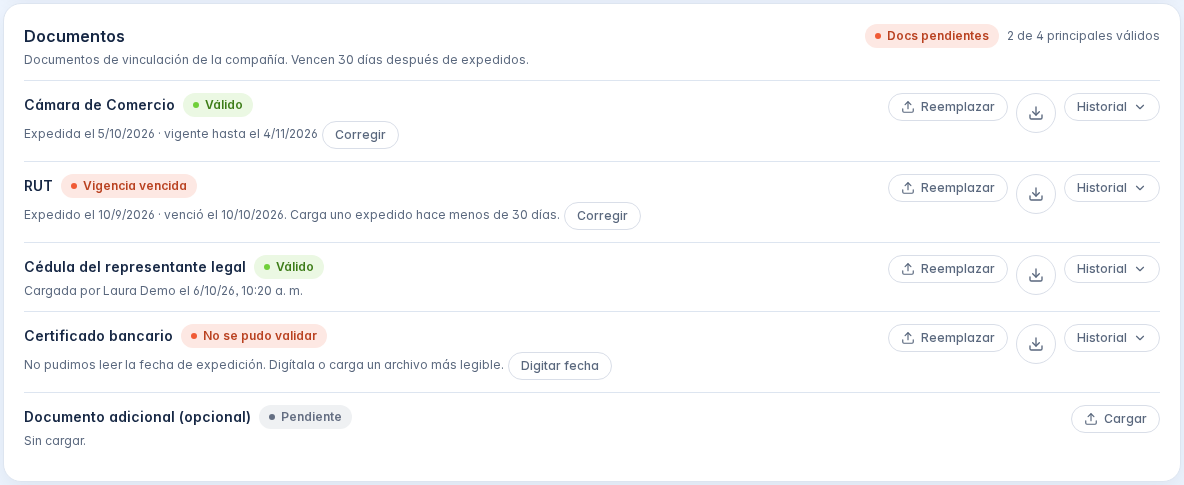
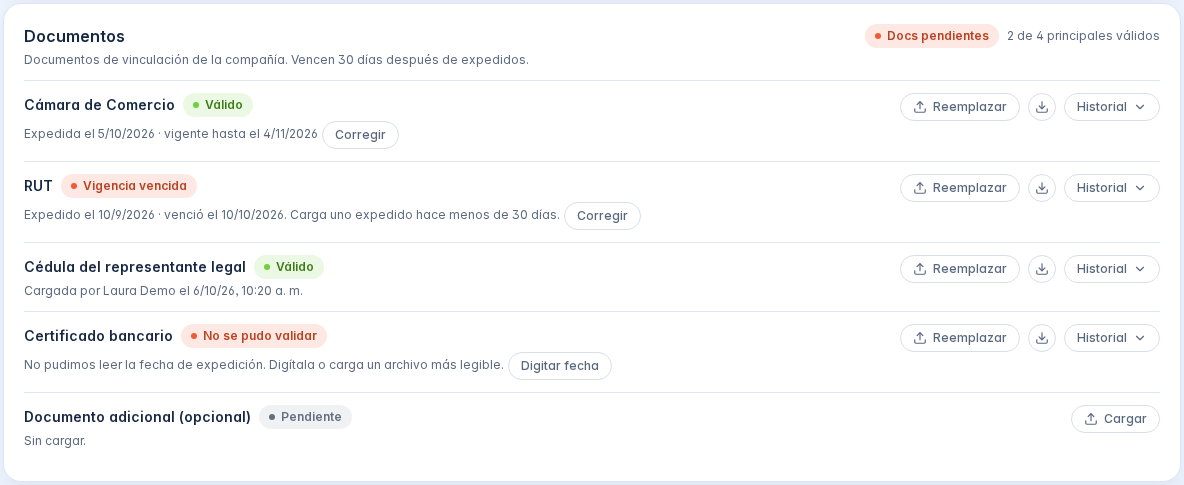
fix(flito-bolsas): botón de descargar a la altura del kit y foco estable al cargar o digitar fecha (HU #13892)
Hallazgos de la sesión de evidencias en DEV:
- El botón de descargar (fila e historial) medía 40 px frente a 28 px de sus
  vecinos. Nuevo flitBtnIconoSm en el kit (h-7 w-7).
- Al cargar un archivo el input se deshabilitaba con el foco dentro; el foco
  caía al diálogo y el modal subía al inicio. Ahora aria-disabled + candado y
  el foco vuelve a la fila sin scroll; el editor de fecha enfoca con
  preventScroll.

Ficha flito_bolsas v1.5 con la captura 05 regenerada.

diff --git a/apps/web/e2e/tests/flito-bolsas-documentos.spec.ts b/apps/web/e2e/tests/flito-bolsas-documentos.spec.ts
@@ -109,6 +109,18 @@ async function abrir(page: Page, nombre = 'TRANSPORTES ANDINOS') {
 
 const seccion = (modal: ReturnType<Page['getByRole']>) => modal.getByRole('region', { name: 'Documentos', exact: true });
 
+/** `scrollTop` del primer ancestro desplazable de la fila (el cuerpo del detalle o el overlay). */
+const scrollDelModal = (fila: ReturnType<Page['getByTestId']>) => fila.evaluate((el) => {
+  for (let n = el.parentElement; n; n = n.parentElement) {
+    const oy = getComputedStyle(n).overflowY;
+    if ((oy === 'auto' || oy === 'scroll') && n.scrollHeight > n.clientHeight) return n.scrollTop;
+  }
+  return -1;
+});
+
+/** Lleva la fila al centro de su contenedor desplazable, para que un salto al inicio se note. */
+const centrar = (fila: ReturnType<Page['getByTestId']>) => fila.evaluate((el) => el.scrollIntoView({ block: 'center' }));
+
 test.describe('FLITO — Bolsas · expediente documental de la compañía (HU #13892)', () => {
   test('AC1 + AC3 vacío: la sección lista los 5 documentos en Pendiente con su siguiente paso', async ({ page }) => {
     await loginAs(page, FINANCIERA_USER, { funciones: CON_CARGA });
@@ -403,5 +415,121 @@ test.describe('FLITO — Bolsas · expediente documental de la compañía (HU #1
     const input = s.getByLabel('Reemplazar RUT');
     await input.focus();
     await expect(input).toBeFocused();
+  });
+
+  test('retrabajo DEV: el botón de descargar tiene la altura de «Reemplazar» e «Historial»', async ({ page }) => {
+    await loginAs(page, FINANCIERA_USER, { funciones: CON_CARGA });
+    await mock(page, { e1: LLENO });
+    const fila = seccion(await abrir(page)).getByTestId('doc-rut');
+    const descargar = await fila.getByRole('button', { name: 'Descargar RUT (versión 3)' }).boundingBox();
+    const reemplazar = await fila.locator('label', { hasText: 'Reemplazar' }).boundingBox();
+    const historial = await fila.getByRole('button', { name: 'Ver el historial de RUT' }).boundingBox();
+    expect(descargar && reemplazar && historial).toBeTruthy();
+    expect(descargar!.height).toBe(reemplazar!.height);
+    expect(descargar!.height).toBe(historial!.height);
+    expect(descargar!.width).toBe(descargar!.height);
+    // Y en la misma línea: el borde superior coincide con el de sus vecinos.
+    expect(Math.abs(descargar!.y - reemplazar!.y)).toBeLessThan(1);
+  });
+
+  test('retrabajo DEV: en el historial, los botones de descargar son cuadrados y a la altura de «Historial»', async ({ page }) => {
+    await loginAs(page, FINANCIERA_USER, { funciones: CON_CARGA });
+    await mock(page, { e1: LLENO });
+    await page.route(/\/historial$/, (r) => json(r, {
+      versiones: [
+        { ...version('rut', { version: 3 }), vigente: true, reemplazadoEn: null, archivoDisponible: true },
+        { ...version('rut', { version: 2, id: '00000000-0000-4000-8000-000000000009' }), vigente: false, reemplazadoEn: '2026-10-01T10:00:00.000Z', archivoDisponible: true },
+      ],
+    }));
+    const fila = seccion(await abrir(page)).getByTestId('doc-rut');
+    const toggle = fila.getByRole('button', { name: 'Ver el historial de RUT' });
+    await toggle.click();
+    const historial = fila.getByRole('region', { name: 'Historial del RUT' });
+    await expect(historial.getByRole('button', { name: /^Descargar RUT \(versión \d\)$/ })).toHaveCount(2);
+    const alto = (await toggle.boundingBox())!.height;
+    const reemplazar = (await fila.locator('label', { hasText: 'Reemplazar' }).boundingBox())!.height;
+    expect(alto).toBe(reemplazar);
+    for (const n of [3, 2]) {
+      const caja = (await historial.getByRole('button', { name: `Descargar RUT (versión ${n})` }).boundingBox())!;
+      expect(caja.height, `versión ${n} · alto`).toBe(alto);
+      expect(caja.width, `versión ${n} · cuadrado`).toBe(caja.height);
+    }
+  });
+
+  test('retrabajo DEV: tras cargar un archivo el foco sigue en la fila y el modal no salta al inicio', async ({ page }) => {
+    await page.setViewportSize({ width: 1366, height: 600 });
+    await loginAs(page, FINANCIERA_USER, { funciones: CON_CARGA });
+    await mock(page, { e1: LLENO });
+    let respuesta = 201;
+    await page.route(/\/api\/flito\/bolsas-documentos\/companias\/1\/tipos\/adicional$/, async (r) => {
+      await new Promise((res) => setTimeout(res, 300));
+      return respuesta === 201 ? json(r, version('adicional'), 201) : json(r, { error: 'falla' }, respuesta);
+    });
+    const fila = seccion(await abrir(page)).getByTestId('doc-adicional');
+    await centrar(fila);
+    const antes = await scrollDelModal(fila);
+    expect(antes).toBeGreaterThan(0);
+
+    const input = fila.getByLabel('Cargar Documento adicional');
+    await input.focus();
+    await input.setInputFiles({ name: 'ok.pdf', mimeType: 'application/pdf', buffer: Buffer.from('%PDF') });
+    await expect(fila.getByText('Cargando…')).toBeVisible();
+    await expect(page.getByText('Documento adicional cargado.')).toBeVisible();
+    // «Cargar» pasa a «Reemplazar» sin desmontar el control: el foco no cae al diálogo.
+    const reemplazar = fila.getByLabel('Reemplazar Documento adicional');
+    await expect(reemplazar).toBeFocused();
+    expect(await fila.evaluate((el) => el.contains(document.activeElement))).toBe(true);
+    expect(await scrollDelModal(fila)).toBeGreaterThan(0);
+
+    // Error de red con «Reintentar»: el botón se desmonta al reintentar y el foco vuelve a la carga.
+    respuesta = 500;
+    await reemplazar.setInputFiles({ name: 'otra.pdf', mimeType: 'application/pdf', buffer: Buffer.from('%PDF') });
+    const reintentar = fila.getByRole('button', { name: 'Reintentar la carga de Documento adicional' });
+    await reintentar.focus();
+    await reintentar.press('Enter');
+    await expect(fila.getByRole('alert')).toHaveText('No pudimos cargar el archivo. Intenta de nuevo.');
+    await expect.poll(() => fila.evaluate((el) => el.contains(document.activeElement))).toBe(true);
+    expect(await scrollDelModal(fila)).toBeGreaterThan(0);
+  });
+
+  test('retrabajo DEV: «Digitar fecha» deja el foco en el campo, se escribe con el teclado y el sondeo no lo quita', async ({ page }) => {
+    await page.clock.install();
+    await page.setViewportSize({ width: 1366, height: 800 });
+    await loginAs(page, FINANCIERA_USER, { funciones: CON_CARGA });
+    // Otra fila en «Validando…» mantiene vivo el sondeo de 5 s mientras se escribe.
+    const conSondeo = expediente(1, {
+      camara_comercio: { estado: 'validando' },
+      certificado_bancario: { estado: 'no_validado' },
+    });
+    const peticiones = await mock(page, { e1: conSondeo });
+    const fila = seccion(await abrir(page)).getByTestId('doc-certificado_bancario');
+    const boton = fila.getByRole('button', { name: 'Digitar la fecha de expedición de Certificado bancario' });
+    // El botón queda pegado al borde inferior: el editor nace en parte fuera de la vista.
+    await boton.evaluate((el) => el.scrollIntoView({ block: 'end' }));
+    const antes = await scrollDelModal(fila);
+    expect(antes).toBeGreaterThan(0);
+
+    await boton.click();
+    const campo = fila.getByLabel('Fecha de expedición', { exact: true });
+    await expect(campo).toBeFocused();
+    await expect(campo).toBeInViewport({ ratio: 1 });
+    // El modal no vuelve al inicio: como mucho se desplaza lo que asoma el editor.
+    const despues = await scrollDelModal(fila);
+    expect(despues).toBeGreaterThanOrEqual(antes);
+
+    // El orden de los segmentos del <input type="date"> sigue el locale del navegador.
+    const orden = await page.evaluate(() => new Intl.DateTimeFormat(navigator.language)
+      .formatToParts(new Date(2026, 9, 20)).filter((x) => x.type !== 'literal').map((x) => x.type));
+    const partes: Record<string, string> = { day: '20', month: '10', year: '2026' };
+    for (const t of orden) {
+      await page.keyboard.type(partes[t]);
+      const e1 = peticiones.e1;
+      await page.clock.runFor(5_500);
+      await expect.poll(() => peticiones.e1).toBeGreaterThan(e1);
+    }
+    await expect(campo).toBeFocused();
+    await expect(campo).toHaveValue('2026-10-20');
+    // Ni el sondeo ni el tecleo mueven el scroll.
+    expect(await scrollDelModal(fila)).toBe(despues);
   });
 });

diff --git a/apps/web/src/components/flito-bolsas-documentos/FilaDocumento.tsx b/apps/web/src/components/flito-bolsas-documentos/FilaDocumento.tsx
@@ -11,14 +11,17 @@ import {
   participio, tituloDocumento,
 } from '../../lib/bolsasDocumentos';
 import StatusChip from '../flit/StatusChip';
-import { flitBtnSecondarySm, flitBtnSecondarySmToggle } from '../flit/flitPageKit';
+import { flitBtnIconoSm, flitBtnSecondarySm, flitBtnSecondarySmToggle } from '../flit/flitPageKit';
 import { toastOk } from '../flit/ToastFlito';
 import EditorFechaExpedicion from './EditorFechaExpedicion';
 import HistorialDocumento from './HistorialDocumento';
-import { BOTON_ICONO, useDescargaDocumentoBolsa } from './useDescargaDocumentoBolsa';
+import { useDescargaDocumentoBolsa } from './useDescargaDocumentoBolsa';
 
+// El input de carga NO se deshabilita mientras sube: si tenía el foco, `disabled` lo tiraría a <body> y
+// la trampa del modal lo llevaría al diálogo con scroll al inicio (HU #13892, retrabajo DEV). Se marca
+// `aria-disabled` y el candado de `subir` impide la segunda carga.
 const ANILLO_LABEL =
-  'cursor-pointer has-[input:focus-visible]:outline-2 has-[input:focus-visible]:outline-offset-2 has-[input:focus-visible]:outline-[color:var(--flit-border-focus)] has-[input:disabled]:cursor-not-allowed has-[input:disabled]:opacity-50';
+  'cursor-pointer has-[input:focus-visible]:outline-2 has-[input:focus-visible]:outline-offset-2 has-[input:focus-visible]:outline-[color:var(--flit-border-focus)] has-[input[aria-disabled=true]]:cursor-not-allowed has-[input[aria-disabled=true]]:opacity-50';
 
 /** `archivo` = el que falló por red/429, para «Reintentar» con el mismo; `null` = sin reintento. */
 type ErrorCarga = { texto: string; archivo: File | null };
@@ -52,11 +55,13 @@ export default function FilaDocumento(p: FilaDocumentoProps) {
   const toggleRef = useRef<HTMLButtonElement>(null);
   const [focoFecha, setFocoFecha] = useState(false);
   const fechaRef = useRef<HTMLButtonElement>(null);
+  const filaRef = useRef<HTMLLIElement>(null);
+  const cargaRef = useRef<HTMLInputElement>(null);
   const { descargar, enCurso } = useDescargaDocumentoBolsa();
 
   // Al cerrar el editor (guardar o cancelar), el foco vuelve a «Corregir» / «Digitar fecha».
   useEffect(() => {
-    if (focoFecha && !p.editando) { fechaRef.current?.focus(); setFocoFecha(false); }
+    if (focoFecha && !p.editando) { fechaRef.current?.focus({ preventScroll: true }); setFocoFecha(false); }
   }, [focoFecha, p.editando]);
 
   const cerrarEditor = () => { p.onEditar(false); setFocoFecha(true); };
@@ -66,6 +71,8 @@ export default function FilaDocumento(p: FilaDocumentoProps) {
     const local = errorArchivoLocal(archivo);
     if (local) { setErrorCarga({ texto: local, archivo: null }); return; }
     candado.current = true;
+    // Si la carga arrancó desde esta fila (input o «Reintentar»), el foco se queda en ella al terminar.
+    const focoEnFila = filaRef.current?.contains(document.activeElement) ?? false;
     setSubiendo(true);
     setErrorCarga(null);
     const reemplazo = vigente !== null;
@@ -96,6 +103,13 @@ export default function FilaDocumento(p: FilaDocumentoProps) {
     } finally {
       candado.current = false;
       setSubiendo(false);
+      // «Reintentar» se desmonta al reintentar y la fila puede re-renderizar con el DTO nuevo: si el foco
+      // salió de la fila, vuelve al control de carga (estable: solo cambia su texto), sin mover el scroll.
+      if (focoEnFila) {
+        requestAnimationFrame(() => {
+          if (!filaRef.current?.contains(document.activeElement)) cargaRef.current?.focus({ preventScroll: true });
+        });
+      }
     }
   }
 
@@ -111,7 +125,7 @@ export default function FilaDocumento(p: FilaDocumentoProps) {
   const ocupadoDescarga = vigente ? enCurso.has(vigente.id) : false;
 
   return (
-    <li className="grid grid-cols-1 gap-x-4 gap-y-2 py-3 sm:grid-cols-[1fr_auto]" style={{ borderColor: 'var(--flit-border-soft)' }}
+    <li ref={filaRef} className="grid grid-cols-1 gap-x-4 gap-y-2 py-3 sm:grid-cols-[1fr_auto]" style={{ borderColor: 'var(--flit-border-soft)' }}
       data-testid={`doc-${tipo}`}>
       <div className="min-w-0 break-words">
         <div className="flex flex-col items-start gap-1 sm:flex-row sm:flex-wrap sm:items-center sm:gap-2">
@@ -141,8 +155,10 @@ export default function FilaDocumento(p: FilaDocumentoProps) {
           <label className={`${flitBtnSecondarySm} ${ANILLO_LABEL}`} aria-busy={subiendo || undefined}>
             <Upload size={14} aria-hidden="true" className="shrink-0" />
             {subiendo ? 'Cargando…' : (vigente ? 'Reemplazar' : 'Cargar')}
-            <input type="file" className="sr-only" accept={ACCEPT_DOCUMENTO_BOLSA} disabled={subiendo}
+            <input ref={cargaRef} type="file" className="sr-only" accept={ACCEPT_DOCUMENTO_BOLSA}
+              aria-disabled={subiendo || undefined}
               aria-label={`${vigente ? 'Reemplazar' : 'Cargar'} ${nombre}`}
+              onClick={(e) => { if (subiendo) e.preventDefault(); }}
               onChange={(e) => {
                 const f = e.target.files?.[0];
                 e.target.value = '';
@@ -151,12 +167,11 @@ export default function FilaDocumento(p: FilaDocumentoProps) {
           </label>
         )}
         {vigente && (
-          <button type="button" className={BOTON_ICONO}
-            style={{ color: 'var(--flit-text-secondary)', borderColor: 'var(--flit-border-input)' }}
+          <button type="button" className={flitBtnIconoSm}
             aria-label={`Descargar ${nombre} (versión ${vigente.version})`} title={`Descargar ${nombre} (versión ${vigente.version})`}
             disabled={ocupadoDescarga} aria-busy={ocupadoDescarga || undefined}
             onClick={() => { void descargar(vigente); }}>
-            <Download size={16} aria-hidden="true" />
+            <Download size={14} aria-hidden="true" />
           </button>
         )}
         {vigente && (

diff --git a/apps/web/src/components/flito-bolsas-documentos/HistorialDocumento.tsx b/apps/web/src/components/flito-bolsas-documentos/HistorialDocumento.tsx
@@ -6,8 +6,8 @@ import type { DocumentoBolsaVersionDto, TipoDocumentoBolsa } from '@operaciones/
 import { bolsasDocumentosApi } from '../../lib/api';
 import { fechaDia, fechaHora } from '../../lib/bolsas';
 import { delDocumento, diaBogota, nombreDocumento, participio } from '../../lib/bolsasDocumentos';
-import { flitBtnSecondarySm } from '../flit/flitPageKit';
-import { BOTON_ICONO, useDescargaDocumentoBolsa } from './useDescargaDocumentoBolsa';
+import { flitBtnIconoSm, flitBtnSecondarySm } from '../flit/flitPageKit';
+import { useDescargaDocumentoBolsa } from './useDescargaDocumentoBolsa';
 
 type Estado = { fase: 'cargando' } | { fase: 'error' } | { fase: 'lista'; versiones: DocumentoBolsaVersionDto[] };
 
@@ -92,11 +92,10 @@ export default function HistorialDocumento({ id, companiaId, tipo, onCerrar }: {
                   )}
                 </div>
                 {v.archivoDisponible && (
-                  <button type="button" className={BOTON_ICONO}
-                    style={{ color: 'var(--flit-text-secondary)', borderColor: 'var(--flit-border-input)' }}
+                  <button type="button" className={flitBtnIconoSm}
                     aria-label={`Descargar ${nombre} (versión ${v.version})`} title={`Descargar ${nombre} (versión ${v.version})`}
                     disabled={ocupado} aria-busy={ocupado || undefined} onClick={() => { void descargar(v); }}>
-                    <Download size={16} aria-hidden="true" />
+                    <Download size={14} aria-hidden="true" />
                   </button>
                 )}
               </li>

diff --git a/apps/web/src/components/flito-bolsas-documentos/EditorFechaExpedicion.tsx b/apps/web/src/components/flito-bolsas-documentos/EditorFechaExpedicion.tsx
@@ -26,7 +26,15 @@ export default function EditorFechaExpedicion({ documento, onCancelar, onGuardad
   const input = useRef<HTMLInputElement>(null);
   const hoy = hoyColombia();
 
-  useEffect(() => { input.current?.focus(); }, []);
+  const form = useRef<HTMLFormElement>(null);
+
+  // El botón que abrió el editor se desmonta: el foco va al campo SIN el scroll de `focus()` (Chromium
+  // centra el elemento y el modal «salta», HU #13892 retrabajo DEV); solo se desplaza lo justo para
+  // que el editor se vea entero.
+  useEffect(() => {
+    input.current?.focus({ preventScroll: true });
+    form.current?.scrollIntoView?.({ block: 'nearest' });
+  }, []);
 
   async function guardar() {
     if (candado.current) return;
@@ -60,7 +68,7 @@ export default function EditorFechaExpedicion({ documento, onCancelar, onGuardad
   }
 
   return (
-    <form noValidate className="rounded-lg border p-3 sm:col-span-2" style={{ borderColor: 'var(--flit-border-input)' }}
+    <form ref={form} noValidate className="rounded-lg border p-3 sm:col-span-2" style={{ borderColor: 'var(--flit-border-input)' }}
       onSubmit={(e) => { e.preventDefault(); void guardar(); }}
       onKeyDown={(e) => { if (e.key === 'Escape') { e.stopPropagation(); e.preventDefault(); if (!guardando) onCancelar(); } }}>
       <label htmlFor={id} className="mb-1 block text-[11px] font-semibold" style={{ color: 'var(--flit-text-primary)' }}>

diff --git a/apps/web/e2e/tests/flito-ayuda-artefactos.spec.ts b/apps/web/e2e/tests/flito-ayuda-artefactos.spec.ts
@@ -237,8 +237,8 @@ test.describe('FLITO — Ayuda · artefactos AC6/AC7', () => {
     flito_conciliacion: { version: '1.1', fecha: '2026-10-21', diagrama: 'ciclo-boleta.svg', capturas: [
       '01-cargar-boleta.png', '02-bandeja.png', '03-detalle-sin-cuadrar.png', '04-conciliar.png', '05-comprobante-pse.png'] },
     // HU #13901: alta manual de la bolsa, conceptos y autogestión, inactivar y reactivar.
-    // HU #13892: paso 7 «Documentos» (v1.3).
-    flito_bolsas: { version: '1.4', fecha: '2026-10-24', diagrama: 'ciclo-periodo.svg', capturas: [
+    // HU #13892: paso 7 «Documentos» (v1.3); botón de descargar a la altura del kit en la 05 (v1.5).
+    flito_bolsas: { version: '1.5', fecha: '2026-10-24', diagrama: 'ciclo-periodo.svg', capturas: [
       '01-cabecera-y-kpi.png', '02-companias.png', '03-crear-bolsa.png', '04-detalle-compania.png', '05-documentos.png'] },
     flito_tarifas: { version: '1.1', fecha: '2026-10-21', diagrama: 'vigencias.svg', capturas: [
       '01-elegir-compania.png', '02-fijar-valor.png', '03-historial.png'] },

diff --git a/apps/web/src/components/flit/flitPageKit.tsx b/apps/web/src/components/flit/flitPageKit.tsx
@@ -205,6 +205,12 @@ export const flitBtnSecondarySm = `flit-focus inline-flex h-7 items-center gap-1
  * (HU #12997, retrabajo)—.
  */
 export const flitBtnSecondarySmToggle = `flit-focus inline-flex h-7 items-center gap-1.5 rounded-[999px] border bg-flit-card px-3 text-xs font-medium hover:transition-colors ${SECUNDARIO_SIN_TRANSICION}`;
+/**
+ * Botón de solo icono a la altura de `flitBtnSecondarySm` (cuadrado de 28 px), para que conviva en la
+ * misma barra que los secundarios pequeños sin descuadrarla (HU #13892). Mismo borde, tinta, hover y
+ * foco que el secundario; el icono va a 14 px. Exige `aria-label` (y `title` si ayuda al ratón).
+ */
+export const flitBtnIconoSm = `flit-focus inline-grid h-7 w-7 shrink-0 place-items-center rounded-[999px] border bg-flit-card ${HOVER_SECUNDARIO}`;
 
 export function FlitCard({ children, className = '' }: { children: ReactNode; className?: string }) {
   return (

diff --git a/apps/api/src/modules/flito-dr-flit/ayuda/fichas-ayuda.generated.ts b/apps/api/src/modules/flito-dr-flit/ayuda/fichas-ayuda.generated.ts
@@ -800,7 +800,7 @@ export const FICHAS_AYUDA: readonly FichaAyudaApi[] = Object.freeze([
     "permiso": "flito_bolsas",
     "etiqueta": "Bolsas",
     "resumen": "Saldos, alta de bolsas, recargas y cierres.",
-    "version": "1.4",
+    "version": "1.5",
     "fecha": "2026-10-24",
     "palabrasClave": [
       "bolsas",

diff --git a/apps/web/src/components/flito-bolsas-documentos/useDescargaDocumentoBolsa.ts b/apps/web/src/components/flito-bolsas-documentos/useDescargaDocumentoBolsa.ts
@@ -34,5 +34,3 @@ export function useDescargaDocumentoBolsa() {
   return { descargar, enCurso };
 }
 
-export const BOTON_ICONO =
-  'flit-focus grid h-10 w-10 shrink-0 place-items-center rounded-[999px] border bg-flit-card transition-colors hover:bg-[var(--flit-bg-hover)] disabled:cursor-not-allowed disabled:opacity-50';

diff --git a/apps/web/src/content/ayuda/flito_bolsas.md b/apps/web/src/content/ayuda/flito_bolsas.md
@@ -23,7 +23,7 @@ consultas:
   - cómo cargo los documentos de la compañía
   - por qué un documento dice vigencia vencida
   - qué hago si no se pudo validar un documento
-version: 1.4
+version: 1.5
 fecha: 2026-10-24
 ---
 ## Qué es
